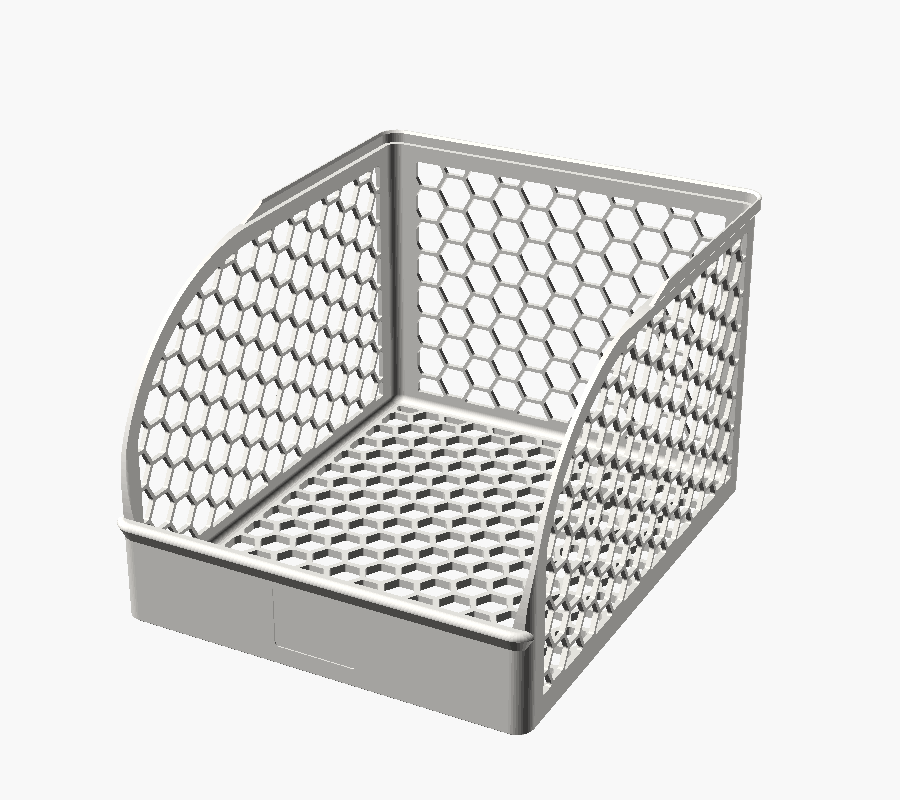
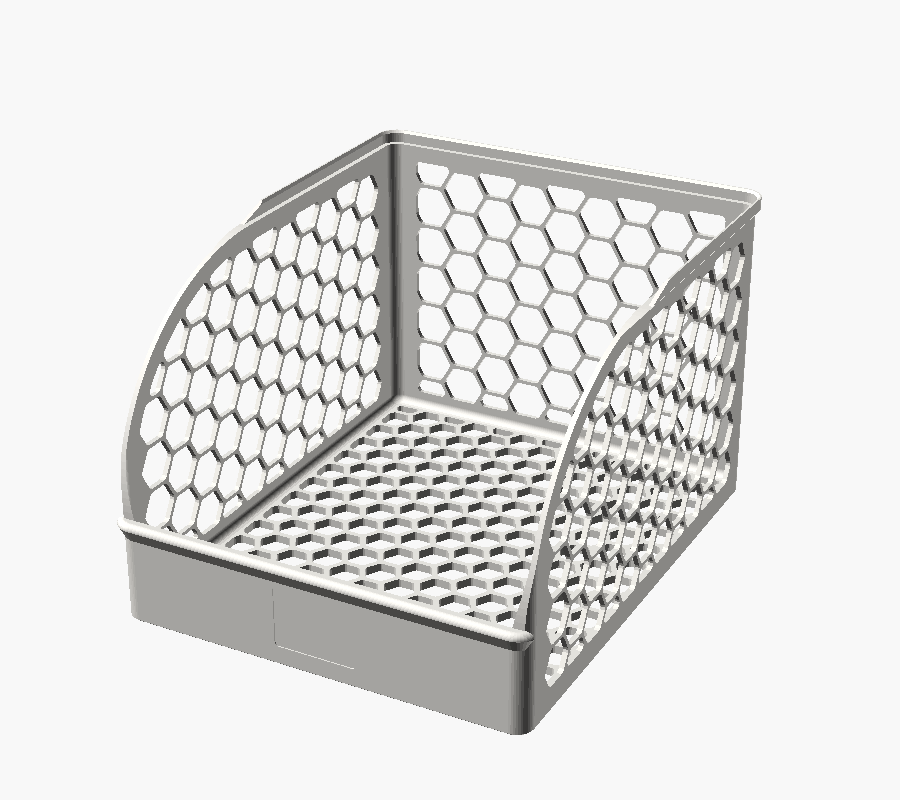
freezer-bin: fast settings become the defaults, on the bin and the test bins
Applied the measured speed work to the design and to both print files. The
cold-test bins take every change too -- they are only a test if they are the
same object, and a cold test on different geometry tells you nothing.

  layer height  0.20 -> 0.24 mm   (0.24mm Standard @BBL P2S)
  wall cells    hex_af 16 -> 20
  z-hop         Spiral Lift -> Normal Lift

Bin: 186.42 g / 9 h 14 m -> 178.76 g / 7 h 30 m, 650 layers.
Cold-test plate: 71.39 g / 2 h 29 m.

Structural margins barely move; the weakest wall plane was carrying 0.32 MPa
against 20 MPa in the weak Z direction.

Going to 20 mm cells exposed a latent bug. perforation() opened the clipped grid
with a fixed offset(1.0), which only drops part-cells narrower than 2 mm. Ample
at 9 mm cells, not at 20: the cold-test bin's small panels came out ringed with
little round offcuts -- genus 48 where about 22 whole cells were expected. The
full-size bin mostly escaped it because its panels are large enough that few
cells get clipped.

hex_open = hex_af / 8 now scales the opening, and the floor matches with
floor_hex_af / 8. Cold-test genus 48 -> 38, and its back panel comes out as six
clean hexagons. It costs 174.90 -> 178.76 g and 7 h 13 m -> 7 h 30 m, which is
worth paying: on the test piece those offcuts were stress risers the real bin
does not have, so they would have cracked first and taught us nothing. Rounder
cell corners also suit cold PETG, which starts cracks at sharp ones.
[…]

Changed region(s): [[0.1556, 0.1875, 0.84, 0.875]]

diff --git a/freezer-bin/print_profile.py b/freezer-bin/print_profile.py
@@ -20,7 +20,7 @@ import sys
 
 PROFILES = "/Applications/BambuStudio.app/Contents/Resources/profiles/BBL"
 MACHINE = "Bambu Lab P2S 0.4 nozzle"
-PROCESS = "0.20mm Standard @BBL P2S"
+PROCESS = "0.24mm Standard @BBL P2S"
 FILAMENT = "Bambu PETG Matte @BBL P2S 0.4 nozzle"   # skeleton: P2S-specific PETG keys
 FILAMENT_NAME = "SUNLU PETG 2.0 @BBL P2S 0.4 nozzle"
 
@@ -84,6 +84,9 @@ FILAMENT_SET = {
     "overhang_fan_threshold": "10%",
     "close_fan_the_first_x_layers": "3",        # 3DFP: fan off for the first 0-3 layers
     "slow_down_layer_time": "12",
+    # Normal Lift instead of the Spiral Lift the Bambu PETG skeleton asks for: worth 9 minutes
+    # over ~170,000 travels, and a straight lift clears a honeycomb wall just as well.
+    "filament_z_hop_types": "Normal Lift",
 }
 
 # 3DFP also says: dry at 65 C for 12 h. Worth doing. Wet PETG strings, and this part travels

diff --git a/freezer-bin/README.md b/freezer-bin/README.md
@@ -59,8 +59,8 @@ the overall goes back to 248.35 mm.
 
 | File | What it is |
 |---|---|
-| `freezer_bin_print.3mf` | The bin, placed, with the P2S / SUNLU PETG 2.0 profile embedded. **181 g, 8 h 50 m.** |
-| `freezer_bin_cold_test_print.3mf` | Two cold-test bins on one plate. **69 g, 2 h 59 m.** Print this one first. |
+| `freezer_bin_print.3mf` | The bin, placed, with the P2S / SUNLU PETG 2.0 profile embedded. **179 g, 7 h 30 m.** |
+| `freezer_bin_cold_test_print.3mf` | Two cold-test bins on one plate. **71 g, 2 h 30 m.** Print this one first. |
 
 Open either in Bambu Studio and slice — the plate, filament and process are already set. The
 filament profile is **SUNLU PETG 2.0 @BBL P2S 0.4 nozzle**: 245 °C nozzle (250 first layer),
@@ -85,8 +85,8 @@ freezer.
 
 ## Cold test
 
-Before committing 181 g and nine hours, freeze a small one. `freezer_bin_cold_test.stl` is
-**94.7 × 65.35 × 76 mm**; two of them are 69 g and about three hours, and
+Before committing 179 g and seven and a half hours, freeze a small one. `freezer_bin_cold_test.stl`
+is **94.7 × 65.35 × 76 mm**; two of them are 71 g and about two and a half hours, and
 `freezer_bin_cold_test_print.3mf` has both on a plate ready to slice.
 
 It is not a scale model. Everything that decides whether this survives −21 °C is left at full
@@ -144,7 +144,8 @@ Everything is at the top of `freezer_bin.scad`. The ones worth knowing:
 | `width`, `depth`, `height` | 200, 246, 150 | Outer body. `depth` is what the bed limits. |
 | `front_h`, `slope_run` | 50, 110 | The front lip, and how far back the sweep rises to full height. |
 | `front_curve` | `true` | The quarter-ellipse sweep. Set `false` for a straight diagonal. |
-| `hex_af`, `hex_web` | 16.0, 1.8 | Wall cell size and the material between cells. **The main filament knob.** |
+| `hex_af`, `hex_web` | 20.0, 1.8 | Wall cell size and the material between cells. **The main filament knob.** |
+| `hex_open` | `hex_af/8` | How hard the clipped grid is opened. Drops part-cells at panel edges instead of printing them as little offcuts; it has to scale with the cell. |
 | `floor_hex` | `true` | Perforate the floor. Turn off for a solid floor — costs about 47 g. |
 | `front_hex` | `false` | Perforate the front lip too. Saves about 12 g and loses the label face. |
 | `stack_clear` | 0.35 | Flange to the bin above, per side. |
@@ -157,34 +158,29 @@ The weights above are in SUNLU PETG 2.0 at 1.22 g/cm³. Density moves with pigme
 filament moves it a lot — the same bin in Bambu PETG Matte (1.37) is about 203 g. Same plastic,
 denser filament.
 
-### Making it print faster
+### Speed, and what is already in the defaults
 
-Measured, not guessed; `DESIGN.md` has the full table and the reasoning.
+The defaults are the fast ones. Everything below was measured on the real part; `DESIGN.md` has
+the full table.
 
-| Change | Time | Cost |
+| | Time | Weight |
 |---|---|---|
-| default | 8 h 50 m | — |
-| 0.24 mm layers | 7 h 49 m | coarser Z steps |
-| `hex_af = 20` | 8 h 18 m | bigger cells, 6 g lighter |
-| both, plus Normal z-hop | **7 h 13 m** | the above together |
+| 0.20 mm layers, 16 mm cells, Spiral z-hop | 9 h 14 m | 186 g |
+| **0.24 mm layers, 20 mm cells, Normal z-hop** | **7 h 30 m** | **179 g** |
 
-Two that look obvious and do nothing: arc fitting saves 30 seconds, and raising the volumetric
-cap is worth 26 minutes even taken to 20 mm³/s. The print is bound by layer count and travel, not
-by flow — 45% of head motion is travel between honeycomb loops.
+That is 1 h 44 m and 8 g, and it costs nothing structural — the margins barely move. Both the bin
+and the cold-test bins use it, which matters: a cold test on different geometry is not a test.
 
-A 0.6 nozzle gets to about 6 h 40 m, but only if you also drop `hex_web` to 1.24; a straight swap
+If you want the finer honeycomb back, `hex_af = 16` and the `0.20mm Standard @BBL P2S` process in
+`print_profile.py` return the old look for about 1 h 20 m.
+
+Two levers that look obvious and are not: arc fitting saves **30 seconds**, and raising the
+volumetric cap is worth 26 minutes even taken to 20 mm³/s. This print is bound by layer count and
+travel, not by flow — 45% of head motion is travel between honeycomb loops, which is why layer
+height dominates and coarser cells pay twice.
+
+A 0.6 nozzle reaches about 6 h 40 m, but only if you also drop `hex_web` to 1.24; a straight swap
 costs 21 g because a 0.62 mm line cannot render a 1.8 mm web.
-
-Cell size is worth understanding before you print several. At the original 9 mm cell with a solid
-floor the bin is a **295 g, 13 h 32 m** print; the defaults make it **181 g, 8 h 50 m**. `DESIGN.md`
-has the sliced weight of every combination tried.
-
-Two details are load-bearing rather than decorative, and `DESIGN.md` has the measurements behind
-both. The cells are **flat-topped**: turned the other way up their roofs fall to 30° from
-horizontal, which put 11.7% of the wall surface into overhang and dropped 22 m of extrusion to the
-slicer's 10 mm/s unsupported speed. And the floor-to-wall **fillet** replaces a sharp internal
-corner that would otherwise be the highest-stressed line in the part — which matters because cold
-PETG is notch-sensitive.
 
 ## Build
 

diff --git a/freezer-bin/DESIGN.md b/freezer-bin/DESIGN.md
@@ -495,3 +495,40 @@ feature fattens. Aligning the geometry to line-width multiples makes it *worse* 
 
 Worth knowing: the software-and-geometry route gets to 7 h 13 m on the 0.4 for nothing, which is
 most of what the 0.6 buys.
+
+## 2026-11-23: the fast settings become the defaults
+
+Applied the measured speed work to the design and to **both** print files. The cold-test bins
+matter here: they are only a test if they are the same object, so they take every change.
+
+| | was | now |
+|---|---|---|
+| layer height | 0.20 mm | **0.24 mm** (`0.24mm Standard @BBL P2S`) |
+| wall cells `hex_af` | 16 | **20** |
+| z-hop | Spiral Lift | **Normal Lift** |
+
+**178.76 g, 7 h 30 m 29 s, 650 layers**, from 186.42 g and 9 h 14 m: 1 h 44 m and 7.7 g. The
+cold-test plate goes to 71.39 g and 2 h 29 m. Margins barely move -- the weakest wall plane was
+carrying 0.32 MPa against 20 MPa in the weak direction.
+
+### Opening has to scale with the cell
+
+Going to 20 mm cells exposed a latent bug. `perforation()` opened the clipped grid with a fixed
+`offset(1.0)`, which drops part-cells narrower than 2 mm. That was ample at 9 mm cells and is not
+at 20: the small panels of the cold-test bin came out ringed with little round offcuts -- genus 48
+where about 22 whole cells were expected, so roughly two dozen pieces of debris. The full-size bin
+mostly got away with it because its panels are large enough that few cells are clipped.
+
+`hex_open = hex_af / 8` now scales it (2.5 mm at the current cell), and the floor uses
+`floor_hex_af / 8` to match. Cold-test genus drops 48 -> 38 and its back panel comes out as six
+clean hexagons.
+
+It is not free: rounder cell corners mean less open area, so the bin went 174.90 -> 178.76 g and
+7 h 13 m -> 7 h 30 m. Worth it. The debris was ugly, and on the test piece it was actively
+misleading -- stress risers the real bin does not have would have cracked first and told us
+nothing. Rounder corners also suit cold PETG, which starts cracks at sharp ones.
+
+Overhang cost checked: sub-45 surface goes 1.19% -> 2.00% of the wall band, and extrusion at or
+below 30 mm/s 0.35% -> 0.95%. Both are the larger corner radii passing through shallow angles on
+their way round, they sit next to a bridge anchor, and both are far below the 11.7% / 5.05% that
+the pointy-top orientation cost before it was fixed.

diff --git a/README.md b/README.md
@@ -12,7 +12,7 @@ Designed and printed on a Bambu Lab P2S (0.4 mm nozzle, AMS).
 | <img src="desk-dial-pod/img/pod_back.png" width="220"> | [desk-dial-pod](desk-dial-pod/) | Round pod for a 1.28" round display and a XIAO ESP32S3, off the edge of a monitor at eye level. Slides onto a Command-strip bracket; two-colour accent ring round the window. | `desk_dial_pod.3mf` (whole plate, P2S profile included) |
 | <img src="desk-dial-knob/img/assembly.png" width="220"> | [desk-dial-knob](desk-dial-knob/) | A rotary-encoder knob in a round head on a neck, gel-taped under a desk. A NeoPixel lights a thin ring of colour at the knob's base. | `desk_dial_knob_housing.3mf`, or the `desk_dial_kh_*.stl` parts |
 | <img src="desk-accent-case/img/stacked.png" width="220"> | [desk-accent-case](desk-accent-case/) | Slim case for a XIAO ESP32S3 and an 8-LED stick, stuck under a monitor's edge to light the stand plate. | `desk_accent.3mf`, or `desk_accent_stacked_*.stl` |
-| <img src="freezer-bin/img/bin.png" width="220"> | [freezer-bin](freezer-bin/) | Open-front stackable bin with honeycomb walls and floor, as deep as a P2S bed will take. Stacked, the front of every bin stays open. | `freezer_bin_print.3mf` (181 g, 8 h 50 m in SUNLU PETG 2.0, P2S profile included); `freezer_bin_cold_test_print.3mf` to freeze first |
+| <img src="freezer-bin/img/bin.png" width="220"> | [freezer-bin](freezer-bin/) | Open-front stackable bin with honeycomb walls and floor, as deep as a P2S bed will take. Stacked, the front of every bin stays open. | `freezer_bin_print.3mf` (179 g, 7 h 30 m in SUNLU PETG 2.0, P2S profile included); `freezer_bin_cold_test_print.3mf` to freeze first |
 
 Each project folder has a `README.md` (pictures, printing, hardware), a `DESIGN.md` (intent, decisions, fit-test results) and a `Makefile`.
 
